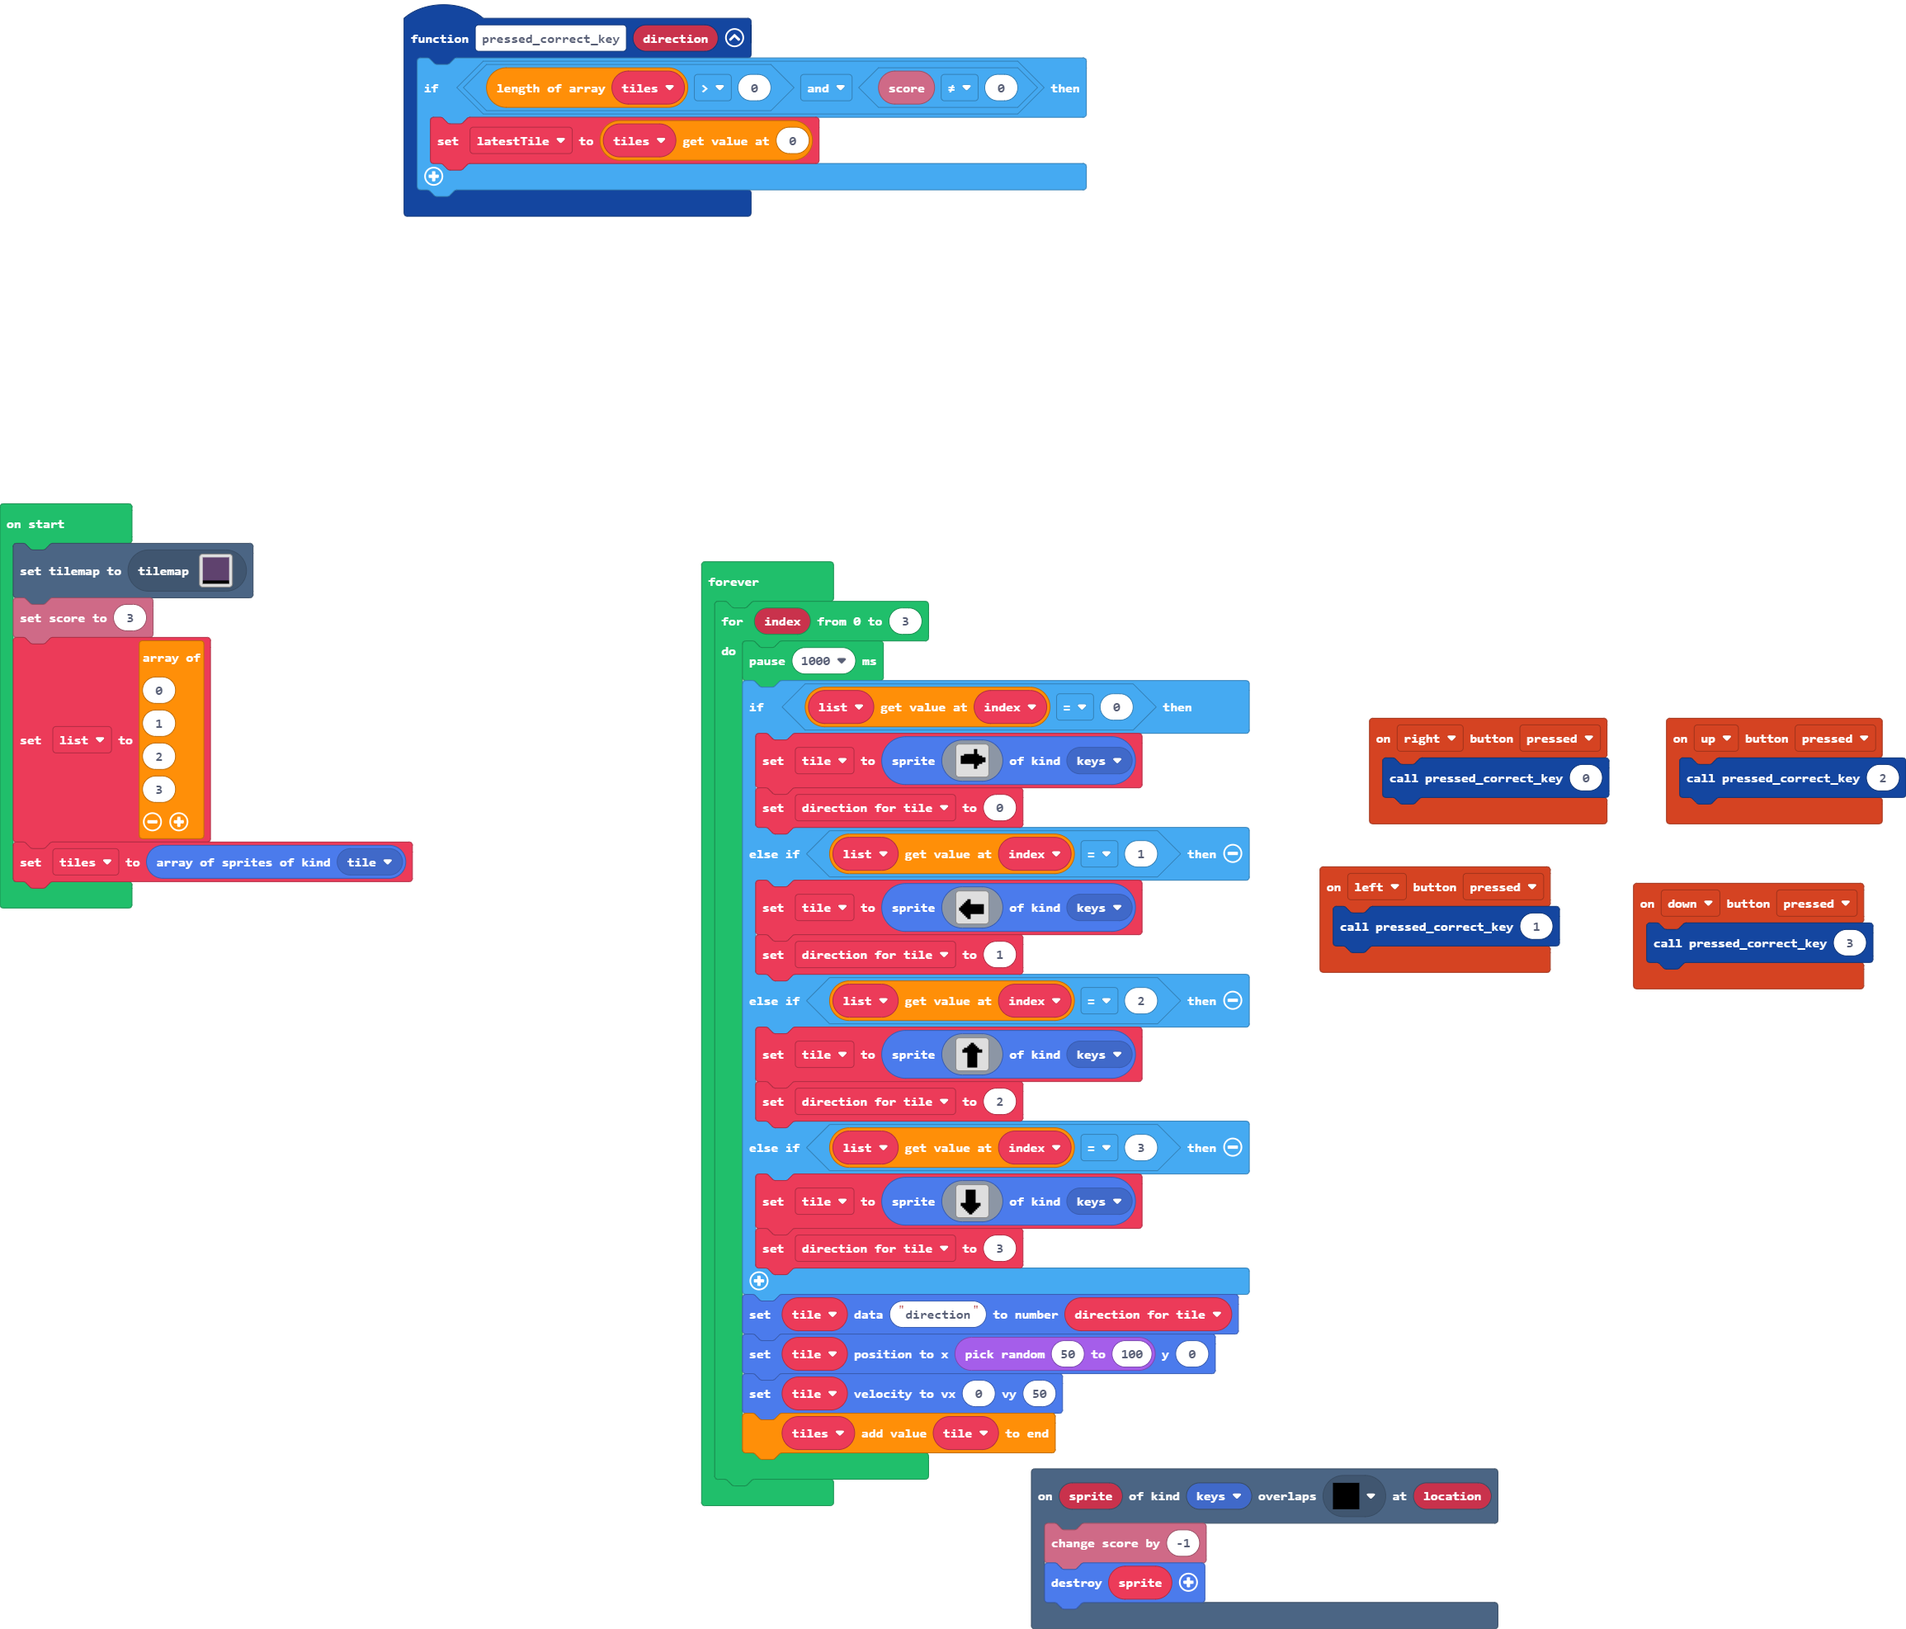
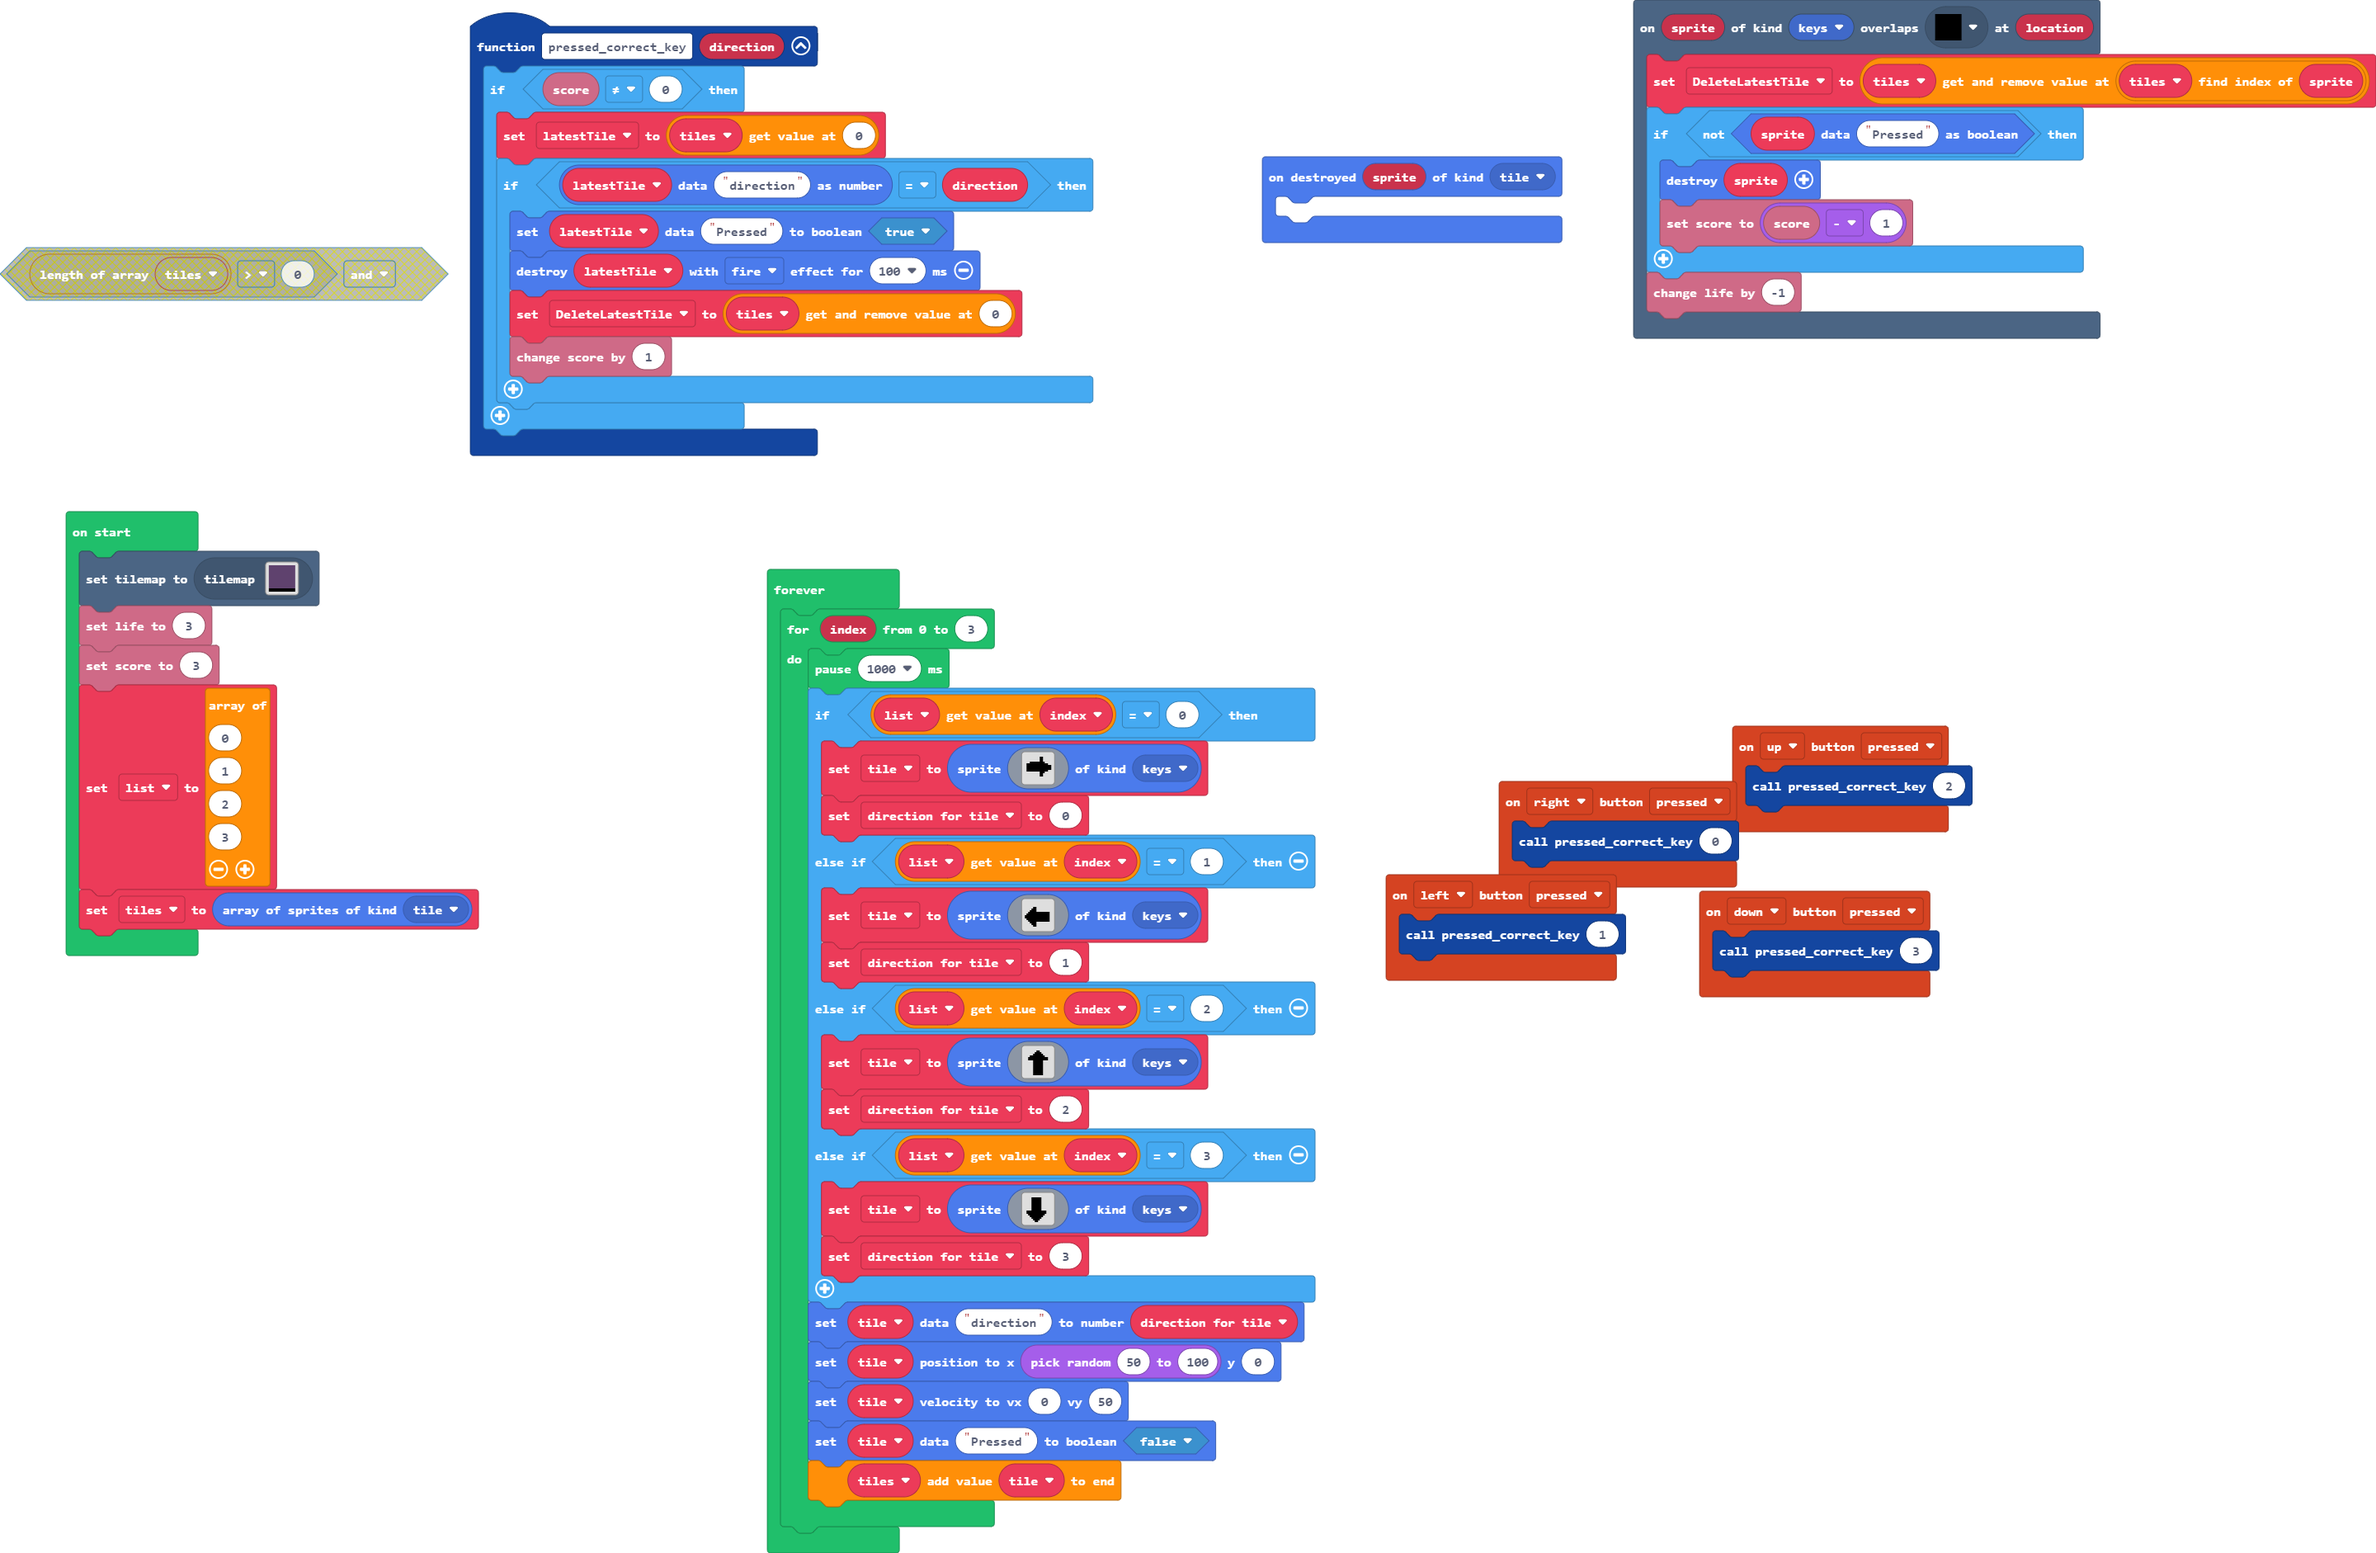
If incorrect key

diff --git a/main.ts b/main.ts
@@ -6,11 +6,18 @@ controller.up.onEvent(ControllerButtonEvent.Pressed, function () {
     pressed_correct_key(2)
 })
 scene.onOverlapTile(SpriteKind.keys, assets.tile`myTile1`, function (sprite, location) {
-    info.changeScoreBy(-1)
-    sprites.destroy(sprite)
+    DeleteLatestTile = tiles2.removeAt(tiles2.indexOf(sprite))
+    if (!(sprites.readDataBoolean(sprite, "Pressed"))) {
+        sprites.destroy(sprite)
+        info.setScore(info.score() - 1)
+    }
+    info.changeLifeBy(-1)
 })
 controller.left.onEvent(ControllerButtonEvent.Pressed, function () {
     pressed_correct_key(1)
+})
+sprites.onDestroyed(SpriteKind.tile, function (sprite) {
+	
 })
 controller.right.onEvent(ControllerButtonEvent.Pressed, function () {
     pressed_correct_key(0)
@@ -19,15 +26,23 @@ controller.down.onEvent(ControllerButtonEvent.Pressed, function () {
     pressed_correct_key(3)
 })
 function pressed_correct_key (direction: number) {
-    if (tiles2.length > 0 && info.score() != 0) {
+    if (info.score() != 0) {
         latestTile = tiles2[0]
+        if (sprites.readDataNumber(latestTile, "direction") == direction) {
+            sprites.setDataBoolean(latestTile, "Pressed", true)
+            sprites.destroy(latestTile, effects.fire, 100)
+            DeleteLatestTile = tiles2.removeAt(0)
+            info.changeScoreBy(1)
+        }
     }
 }
 let direction_for_tile = 0
 let tile: Sprite = null
 let latestTile: Sprite = null
+let DeleteLatestTile: Sprite = null
 let tiles2: Sprite[] = []
 tiles.setCurrentTilemap(tilemap`level1`)
+info.setLife(3)
 info.setScore(3)
 let list = [
 0,
@@ -123,6 +138,7 @@ forever(function () {
         sprites.setDataNumber(tile, "direction", direction_for_tile)
         tile.setPosition(randint(50, 100), 0)
         tile.setVelocity(0, 50)
+        sprites.setDataBoolean(tile, "Pressed", false)
         tiles2.push(tile)
     }
 })
